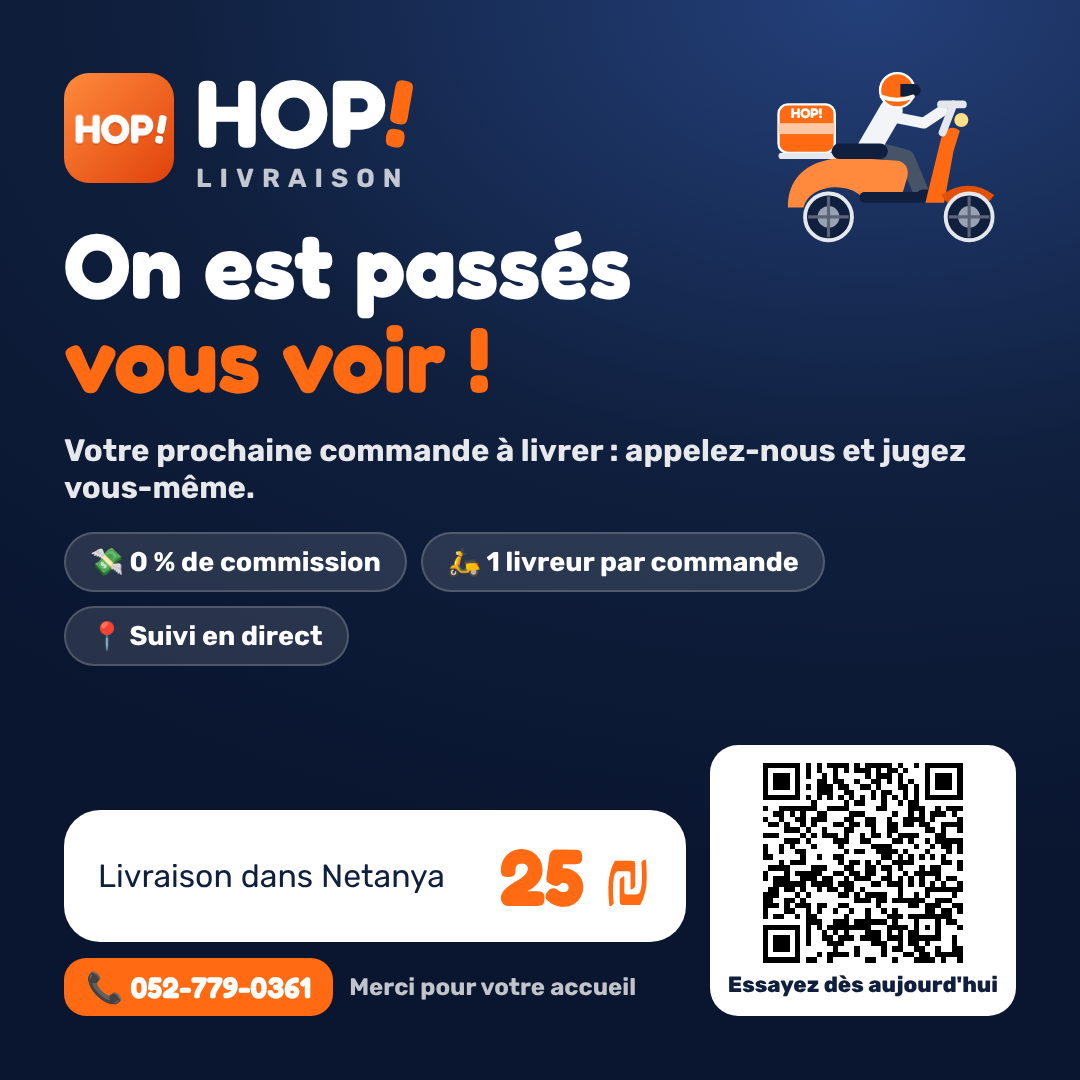
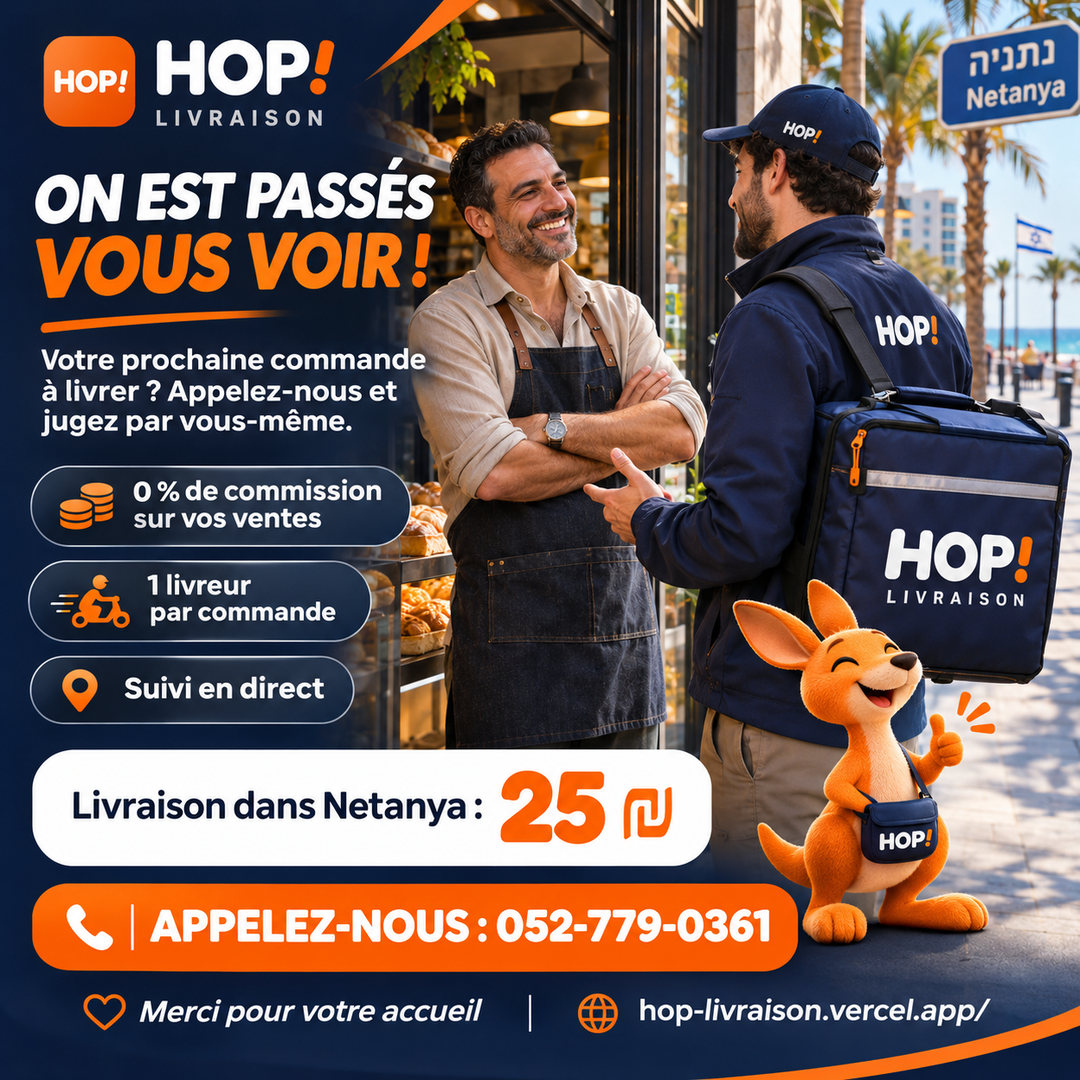
Kit pub : nouveaux visuels « On est passés vous voir ! » (relance après visite, FR/HE, post + story)
Claude-Session: https://claude.ai/code/session_01HjyNE8jb2CVL8HhFoocmFa

diff --git a/livraison/index.html b/livraison/index.html
@@ -91,7 +91,7 @@
       } catch (e) { /* ignore */ }
     })();
   </script>
-  <link rel="stylesheet" href="styles.css?v=202611021540" />
+  <link rel="stylesheet" href="styles.css?v=202611021549" />
 <style id="splashCss">#splash{position:fixed;inset:0;z-index:99999;display:flex;flex-direction:column;align-items:center;justify-content:center;gap:18px;background:#0F1F3D;color:#fff;transition:opacity .35s ease}#splash.out{opacity:0;pointer-events:none}#splash svg{width:min(58vw,300px);height:auto;display:block}#splash span{font:700 16px/1 Rubik,-apple-system,Arial,sans-serif;letter-spacing:.42em;margin-inline-start:.42em;opacity:.92}</style>
 </head>
 <body>
@@ -780,16 +780,16 @@
 </div>
 
 <script src="https://cdnjs.cloudflare.com/ajax/libs/leaflet/1.9.4/leaflet.min.js"></script>
-<script src="config.js?v=202611021540"></script>
-<script src="i18n.js?v=202611021540"></script>
-<script src="pricing.js?v=202611021540"></script>
-<script src="store.js?v=202611021540"></script>
-<script src="chat.js?v=202611021540"></script>
-<script src="common.js?v=202611021540"></script>
-<script src="enseignes.js?v=202611021540"></script>
-<script src="places.js?v=202611021540"></script>
-<script src="rayons.js?v=202611021540"></script>
-<script src="client.js?v=202611021540"></script>
+<script src="config.js?v=202611021549"></script>
+<script src="i18n.js?v=202611021549"></script>
+<script src="pricing.js?v=202611021549"></script>
+<script src="store.js?v=202611021549"></script>
+<script src="chat.js?v=202611021549"></script>
+<script src="common.js?v=202611021549"></script>
+<script src="enseignes.js?v=202611021549"></script>
+<script src="places.js?v=202611021549"></script>
+<script src="rayons.js?v=202611021549"></script>
+<script src="client.js?v=202611021549"></script>
 <script>(function(){var s=document.getElementById("splash");if(!s)return;var t0=Date.now();function off(){var w=Math.max(0,650-(Date.now()-t0));setTimeout(function(){s.classList.add("out");setTimeout(function(){s.remove()},400)},w)}if(document.readyState==="complete")off();else addEventListener("load",off);setTimeout(off,3500)})();</script>
 </body>
 </html>

diff --git a/livraison/coursier.html b/livraison/coursier.html
@@ -54,7 +54,7 @@
     })();
   </script>
   <link rel="stylesheet" href="https://cdnjs.cloudflare.com/ajax/libs/leaflet/1.9.4/leaflet.min.css" />
-  <link rel="stylesheet" href="styles.css?v=202611021540" />
+  <link rel="stylesheet" href="styles.css?v=202611021549" />
 <style id="splashCss">#splash{position:fixed;inset:0;z-index:99999;display:flex;flex-direction:column;align-items:center;justify-content:center;gap:18px;background:#0F1F3D;color:#fff;transition:opacity .35s ease}#splash.out{opacity:0;pointer-events:none}#splash svg{width:min(58vw,300px);height:auto;display:block}#splash span{font:700 16px/1 Rubik,-apple-system,Arial,sans-serif;letter-spacing:.42em;margin-inline-start:.42em;opacity:.92}</style>
 </head>
 <body>
@@ -295,14 +295,14 @@
 
 <script src="https://cdnjs.cloudflare.com/ajax/libs/leaflet/1.9.4/leaflet.min.js"></script>
 <script src="https://cdnjs.cloudflare.com/ajax/libs/qrcodejs/1.0.0/qrcode.min.js"></script>
-<script src="config.js?v=202611021540"></script>
-<script src="i18n.js?v=202611021540"></script>
-<script src="pricing.js?v=202611021540"></script>
-<script src="store.js?v=202611021540"></script>
-<script src="chat.js?v=202611021540"></script>
-<script src="common.js?v=202611021540"></script>
-<script src="badge.js?v=202611021540"></script>
-<script src="coursier.js?v=202611021540"></script>
+<script src="config.js?v=202611021549"></script>
+<script src="i18n.js?v=202611021549"></script>
+<script src="pricing.js?v=202611021549"></script>
+<script src="store.js?v=202611021549"></script>
+<script src="chat.js?v=202611021549"></script>
+<script src="common.js?v=202611021549"></script>
+<script src="badge.js?v=202611021549"></script>
+<script src="coursier.js?v=202611021549"></script>
 <script>(function(){var s=document.getElementById("splash");if(!s)return;var t0=Date.now();function off(){var w=Math.max(0,650-(Date.now()-t0));setTimeout(function(){s.classList.add("out");setTimeout(function(){s.remove()},400)},w)}if(document.readyState==="complete")off();else addEventListener("load",off);setTimeout(off,3500)})();</script>
 </body>
 </html>

diff --git a/livraison/admin.html b/livraison/admin.html
@@ -54,7 +54,7 @@
       window.addEventListener("load", function () { if (first) later(); });
     })();
   </script>
-  <link rel="stylesheet" href="styles.css?v=202611021540" />
+  <link rel="stylesheet" href="styles.css?v=202611021549" />
 <style id="splashCss">#splash{position:fixed;inset:0;z-index:99999;display:flex;flex-direction:column;align-items:center;justify-content:center;gap:18px;background:#0F1F3D;color:#fff;transition:opacity .35s ease}#splash.out{opacity:0;pointer-events:none}#splash svg{width:min(58vw,300px);height:auto;display:block}#splash span{font:700 16px/1 Rubik,-apple-system,Arial,sans-serif;letter-spacing:.42em;margin-inline-start:.42em;opacity:.92}</style>
 </head>
 <body>
@@ -185,15 +185,15 @@
 </div>
 
 <script src="https://cdnjs.cloudflare.com/ajax/libs/leaflet/1.9.4/leaflet.min.js"></script>
-<script src="config.js?v=202611021540"></script>
-<script src="i18n.js?v=202611021540"></script>
-<script src="pricing.js?v=202611021540"></script>
-<script src="store.js?v=202611021540"></script>
-<script src="chat.js?v=202611021540"></script>
-<script src="common.js?v=202611021540"></script>
-<script src="places.js?v=202611021540"></script>
-<script src="rayons.js?v=202611021540"></script>
-<script src="admin.js?v=202611021540"></script>
+<script src="config.js?v=202611021549"></script>
+<script src="i18n.js?v=202611021549"></script>
+<script src="pricing.js?v=202611021549"></script>
+<script src="store.js?v=202611021549"></script>
+<script src="chat.js?v=202611021549"></script>
+<script src="common.js?v=202611021549"></script>
+<script src="places.js?v=202611021549"></script>
+<script src="rayons.js?v=202611021549"></script>
+<script src="admin.js?v=202611021549"></script>
 <script>(function(){var s=document.getElementById("splash");if(!s)return;var t0=Date.now();function off(){var w=Math.max(0,650-(Date.now()-t0));setTimeout(function(){s.classList.add("out");setTimeout(function(){s.remove()},400)},w)}if(document.readyState==="complete")off();else addEventListener("load",off);setTimeout(off,3500)})();</script>
 </body>
 </html>

diff --git a/livraison/kit.js b/livraison/kit.js
@@ -558,7 +558,7 @@ const CAMPS = [
   { id: "resto", aud: "shop", isNew: true, title: "🔥 Restaurants : « Gardez 100 % de vos ventes »", desc: "Nouveaux visuels : le restaurateur remet le sac au livreur HOP!, le calcul 100 commandes × 80 ₪, 0 % de commission, Hoppy et le numéro à appeler.", formats: ["post", "story", "flyer"] },
   { id: "pro", aud: "shop", isNew: true, title: "⚡ Tout commerce : « Vos clients veulent être livrés ? »", desc: "Nouveaux visuels : restaurants, boutiques, pharmacies, pressings · 0 % de commission · suivi en direct · livraison dans Netanya 25 ₪, prix fixe.", formats: ["post", "story", "flyer"] },
   { id: "quartier", aud: "shop", isNew: true, title: "🏪 Commerces de quartier", desc: "Nouveaux visuels « Vendez aussi à ceux qui ne viennent pas » : pharmacie, fleuriste, pressing, boutique · livré le jour même · pressing aller-retour · 25 ₪ dans Netanya · boutique en ligne en option 299 ₪/mois.", formats: ["post", "story", "flyer"] },
-  { id: "relance", aud: "shop", title: "🤝 Relance après une visite", desc: "« On est passés vous voir ! » à laisser ou envoyer après le passage.", formats: ["post", "story", "flyer"] },
+  { id: "relance", aud: "shop", isNew: true, title: "🤝 Relance après une visite", desc: "Nouveaux visuels « On est passés vous voir ! » : 0 % de commission, 1 livreur par commande, suivi en direct, 25 ₪ dans Netanya, « Merci pour votre accueil ». À envoyer après le passage.", formats: ["post", "story", "flyer"] },
   { id: "shop", aud: "shop", title: "🏪 Votre commerce livre avec HOP!", desc: "La présentation générale pour les commerces.", formats: ["post", "story", "flyer"] },
   { id: "rider", aud: "rider", title: "🛵 Deviens livreur partenaire", desc: "Le recrutement : tu choisis tes courses, pourboires 100 % pour toi.", formats: ["post", "story", "flyer"] }
 ];

diff --git a/livraison/commerce.html b/livraison/commerce.html
@@ -73,7 +73,7 @@
       window.addEventListener("load", function () { if (first) later(); });
     })();
   </script>
-  <link rel="stylesheet" href="styles.css?v=202611021540" />
+  <link rel="stylesheet" href="styles.css?v=202611021549" />
 </head>
 <body>
 
@@ -190,13 +190,13 @@
 <button type="button" class="wa-fab chat-fab" id="waFab"><span>💬</span><b data-i18n="chatFab"></b><i class="chat-badge hidden" id="fabBadge"></i></button>
 
 <script src="https://cdnjs.cloudflare.com/ajax/libs/qrcodejs/1.0.0/qrcode.min.js"></script>
-<script src="config.js?v=202611021540"></script>
-<script src="i18n.js?v=202611021540"></script>
-<script src="pricing.js?v=202611021540"></script>
-<script src="store.js?v=202611021540"></script>
-<script src="chat.js?v=202611021540"></script>
-<script src="common.js?v=202611021540"></script>
-<script src="places.js?v=202611021540"></script>
-<script src="commerce.js?v=202611021540"></script>
+<script src="config.js?v=202611021549"></script>
+<script src="i18n.js?v=202611021549"></script>
+<script src="pricing.js?v=202611021549"></script>
+<script src="store.js?v=202611021549"></script>
+<script src="chat.js?v=202611021549"></script>
+<script src="common.js?v=202611021549"></script>
+<script src="places.js?v=202611021549"></script>
+<script src="commerce.js?v=202611021549"></script>
 </body>
 </html>

diff --git a/livraison/bienvenue.html b/livraison/bienvenue.html
@@ -15,7 +15,7 @@
   <link rel="preconnect" href="https://fonts.googleapis.com" />
   <link rel="preconnect" href="https://fonts.gstatic.com" crossorigin />
   <link href="https://fonts.googleapis.com/css2?family=Fredoka:wght@500;600;700&family=Rubik:wght@400;500;600;700;800&display=swap" rel="stylesheet" />
-  <link rel="stylesheet" href="styles.css?v=202611021540" />
+  <link rel="stylesheet" href="styles.css?v=202611021549" />
   <script>
     // Nouveau design (validé par le patron) : pour tout le monde ; ?design=1 garde l'ancien sur ce téléphone, ?design=2 revient au nouveau
     try { var dq = new URLSearchParams(location.search).get("design");
@@ -70,11 +70,11 @@
 
 <div class="ol-bar"><a class="btn btn-primary btn-lg" href="index.html" id="bvGo"></a></div>
 
-<script src="config.js?v=202611021540"></script>
-<script src="i18n.js?v=202611021540"></script>
-<script src="pricing.js?v=202611021540"></script>
-<script src="store.js?v=202611021540"></script>
-<script src="common.js?v=202611021540"></script>
+<script src="config.js?v=202611021549"></script>
+<script src="i18n.js?v=202611021549"></script>
+<script src="pricing.js?v=202611021549"></script>
+<script src="store.js?v=202611021549"></script>
+<script src="common.js?v=202611021549"></script>
 <script>
 (function () {
   "use strict";

diff --git a/livraison/suivi.html b/livraison/suivi.html
@@ -45,7 +45,7 @@
       window.addEventListener("load", function () { if (first) later(); });
     })();
   </script>
-  <link rel="stylesheet" href="styles.css?v=202611021540" />
+  <link rel="stylesheet" href="styles.css?v=202611021549" />
   <script>
     // Nouveau design (validé par le patron) : pour tout le monde ; ?design=1 garde l'ancien sur ce téléphone, ?design=2 revient au nouveau
     try { var dq = new URLSearchParams(location.search).get("design");
@@ -153,12 +153,12 @@
 </div>
 
 <script src="https://cdnjs.cloudflare.com/ajax/libs/leaflet/1.9.4/leaflet.min.js"></script>
-<script src="config.js?v=202611021540"></script>
-<script src="i18n.js?v=202611021540"></script>
-<script src="pricing.js?v=202611021540"></script>
-<script src="store.js?v=202611021540"></script>
-  <script src="chat.js?v=202611021540"></script>
-<script src="common.js?v=202611021540"></script>
-<script src="suivi.js?v=202611021540"></script>
+<script src="config.js?v=202611021549"></script>
+<script src="i18n.js?v=202611021549"></script>
+<script src="pricing.js?v=202611021549"></script>
+<script src="store.js?v=202611021549"></script>
+  <script src="chat.js?v=202611021549"></script>
+<script src="common.js?v=202611021549"></script>
+<script src="suivi.js?v=202611021549"></script>
 </body>
 </html>

diff --git a/livraison/badge.html b/livraison/badge.html
@@ -10,7 +10,7 @@
   <link rel="preconnect" href="https://fonts.googleapis.com" />
   <link rel="preconnect" href="https://fonts.gstatic.com" crossorigin />
   <link href="https://fonts.googleapis.com/css2?family=Fredoka:wght@500;600;700&family=Rubik:wght@400;500;600;700;800&display=swap" rel="stylesheet" />
-  <link rel="stylesheet" href="styles.css?v=202611021540" />
+  <link rel="stylesheet" href="styles.css?v=202611021549" />
   <style>
     body { background: #0F1F3D; color: #fff; min-height: 100vh; font-family: Rubik, sans-serif; }
     .bd-page { max-width: 460px; margin: 0 auto; padding: 32px 16px; text-align: center; }
@@ -26,7 +26,7 @@
     <p>Chaque livreur débloque un badge à 1, 10, 25, 50, 100, 250, 500 et 1 000 courses livrées. Il s'affiche une fois dans l'appli HOP! Livreur, puis reste dans « Statistiques ». Touchez une médaille pour la voir.</p>
     <div class="bdg-row" id="row"></div>
   </main>
-  <script src="badge.js?v=202611021540"></script>
+  <script src="badge.js?v=202611021549"></script>
   <script>
     const row = document.getElementById("row");
     row.innerHTML = Badge.MILESTONES.map(m => `<button type="button" data-n="${m.n}">${Badge.medal(m.n)}<span>${m.tier}</span></button>`).join("");

diff --git a/livraison/on-livre.html b/livraison/on-livre.html
@@ -13,7 +13,7 @@
   <link rel="preconnect" href="https://fonts.googleapis.com" />
   <link rel="preconnect" href="https://fonts.gstatic.com" crossorigin />
   <link href="https://fonts.googleapis.com/css2?family=Fredoka:wght@500;600;700&family=Rubik:wght@400;500;600;700;800&display=swap" rel="stylesheet" />
-  <link rel="stylesheet" href="styles.css?v=202611021540" />
+  <link rel="stylesheet" href="styles.css?v=202611021549" />
   <script>
     // Nouveau design (validé par le patron) : pour tout le monde ; ?design=1 garde l'ancien sur ce téléphone, ?design=2 revient au nouveau
     try { var dq = new URLSearchParams(location.search).get("design");
@@ -61,10 +61,10 @@
 
 <div class="ol-bar"><a class="btn btn-primary btn-lg" href="index.html" id="olGo"></a></div>
 
-<script src="config.js?v=202611021540"></script>
-<script src="i18n.js?v=202611021540"></script>
-<script src="pricing.js?v=202611021540"></script>
-<script src="common.js?v=202611021540"></script>
+<script src="config.js?v=202611021549"></script>
+<script src="i18n.js?v=202611021549"></script>
+<script src="pricing.js?v=202611021549"></script>
+<script src="common.js?v=202611021549"></script>
 <script>
 (function () {
   "use strict";

diff --git a/livraison/kit.html b/livraison/kit.html
@@ -12,7 +12,7 @@
   <link rel="preconnect" href="https://fonts.googleapis.com" />
   <link rel="preconnect" href="https://fonts.gstatic.com" crossorigin />
   <link href="https://fonts.googleapis.com/css2?family=Fredoka:wght@500;600;700&family=Rubik:wght@400;500;600;700;800&display=swap" rel="stylesheet" />
-  <link rel="stylesheet" href="styles.css?v=202611021540" />
+  <link rel="stylesheet" href="styles.css?v=202611021549" />
 </head>
 <body class="kit-page">
 
@@ -177,10 +177,10 @@
 </div>
 
 <script src="https://cdnjs.cloudflare.com/ajax/libs/qrcodejs/1.0.0/qrcode.min.js"></script>
-<script src="config.js?v=202611021540"></script>
-<script src="i18n.js?v=202611021540"></script>
-<script src="pricing.js?v=202611021540"></script>
-<script src="common.js?v=202611021540"></script>
-<script src="kit.js?v=202611021540"></script>
+<script src="config.js?v=202611021549"></script>
+<script src="i18n.js?v=202611021549"></script>
+<script src="pricing.js?v=202611021549"></script>
+<script src="common.js?v=202611021549"></script>
+<script src="kit.js?v=202611021549"></script>
 </body>
 </html>

diff --git a/livraison/recu.html b/livraison/recu.html
@@ -43,7 +43,7 @@
       window.addEventListener("load", function () { if (first) later(); });
     })();
   </script>
-  <link rel="stylesheet" href="styles.css?v=202611021540" />
+  <link rel="stylesheet" href="styles.css?v=202611021549" />
 </head>
 <body class="receipt-page">
   <main class="wrap narrow" style="padding:20px 16px 40px">
@@ -53,11 +53,11 @@
       <a class="btn" href="index.html#mes-courses">← Retour · חזרה</a>
     </div>
   </main>
-  <script src="config.js?v=202611021540"></script>
-  <script src="i18n.js?v=202611021540"></script>
-  <script src="pricing.js?v=202611021540"></script>
-  <script src="store.js?v=202611021540"></script>
-  <script src="common.js?v=202611021540"></script>
-  <script src="recu.js?v=202611021540"></script>
+  <script src="config.js?v=202611021549"></script>
+  <script src="i18n.js?v=202611021549"></script>
+  <script src="pricing.js?v=202611021549"></script>
+  <script src="store.js?v=202611021549"></script>
+  <script src="common.js?v=202611021549"></script>
+  <script src="recu.js?v=202611021549"></script>
 </body>
 </html>

diff --git a/livraison/autocollant.html b/livraison/autocollant.html
@@ -89,7 +89,7 @@
 </div></div>
 
 <script src="https://cdnjs.cloudflare.com/ajax/libs/qrcodejs/1.0.0/qrcode.min.js"></script>
-<script src="config.js?v=202611021540"></script>
+<script src="config.js?v=202611021549"></script>
 <script>
 (function () {
   "use strict";
